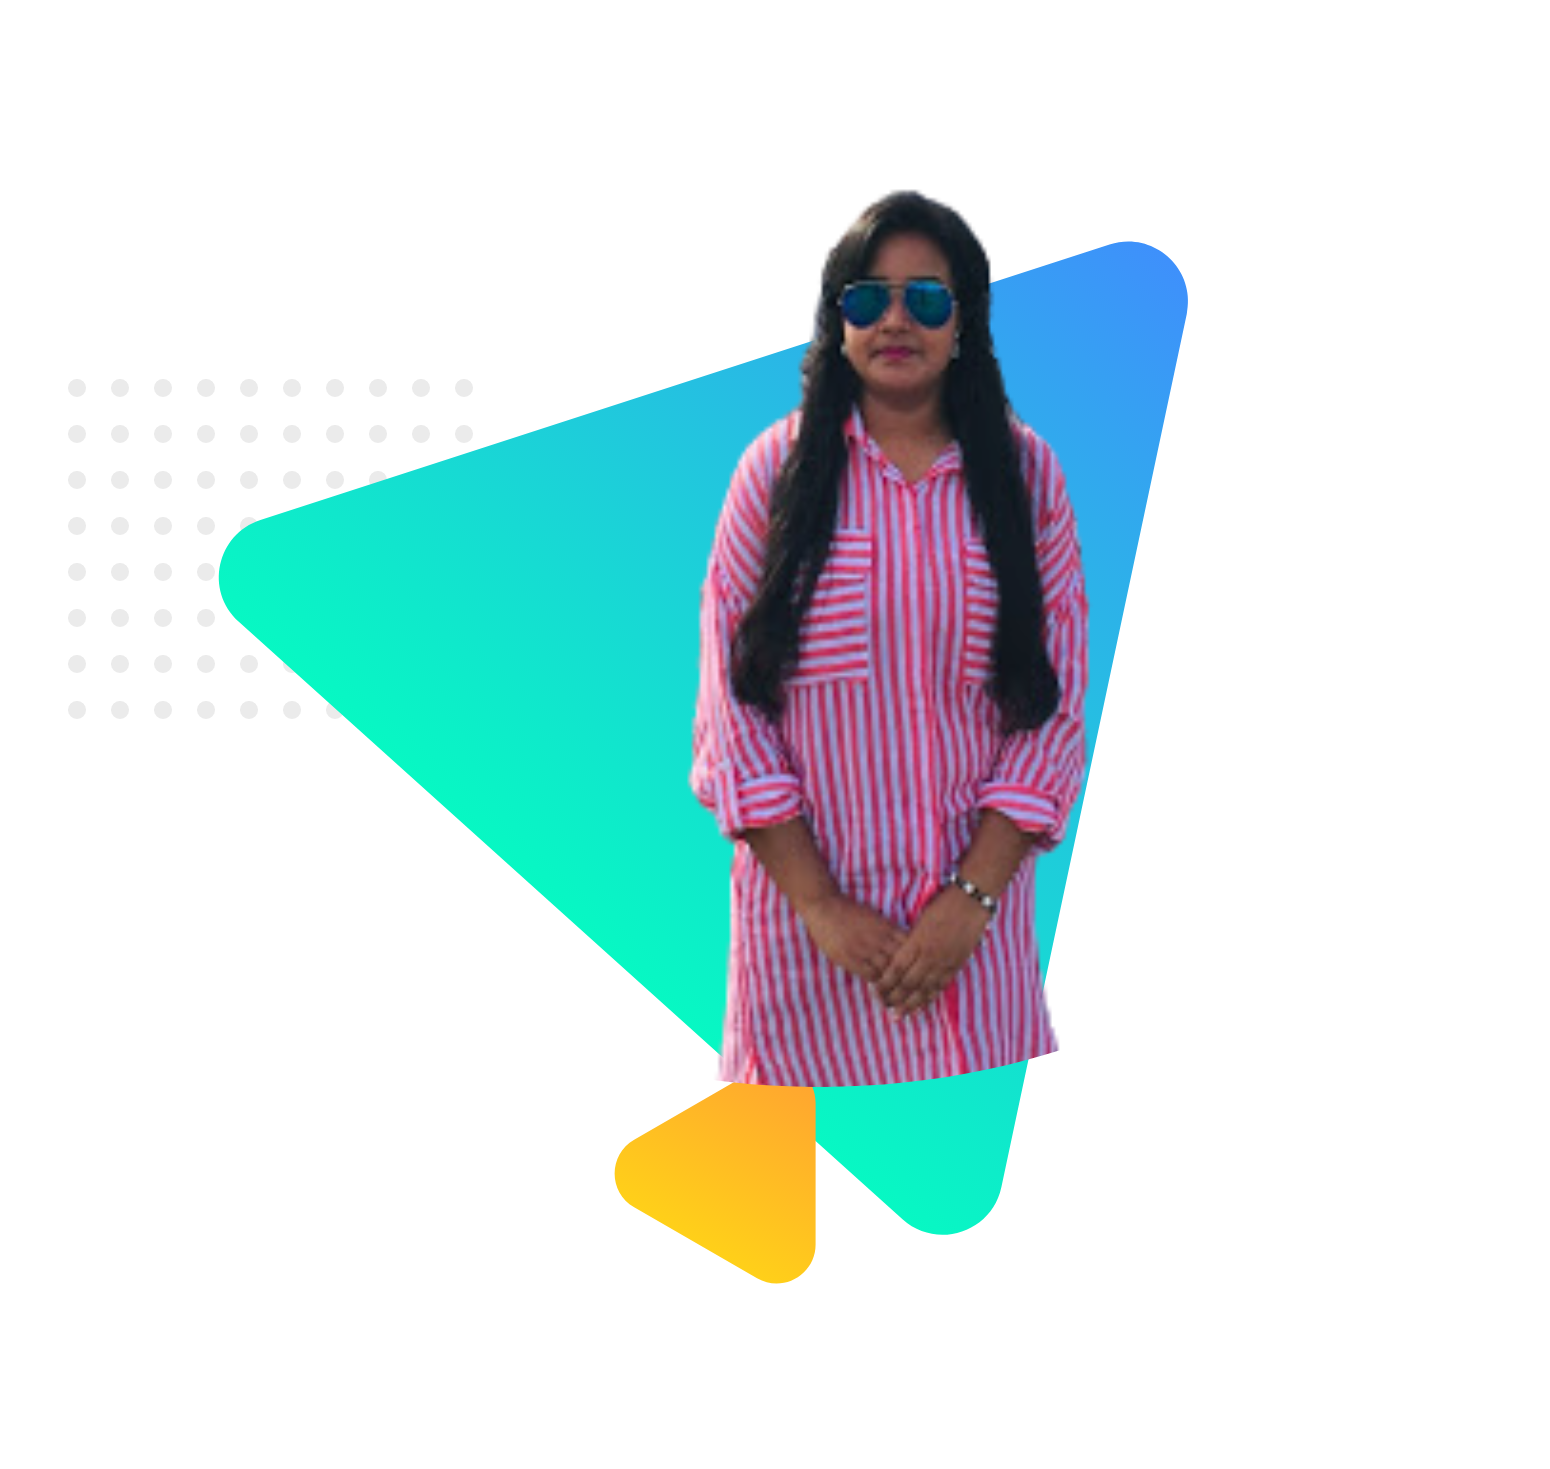
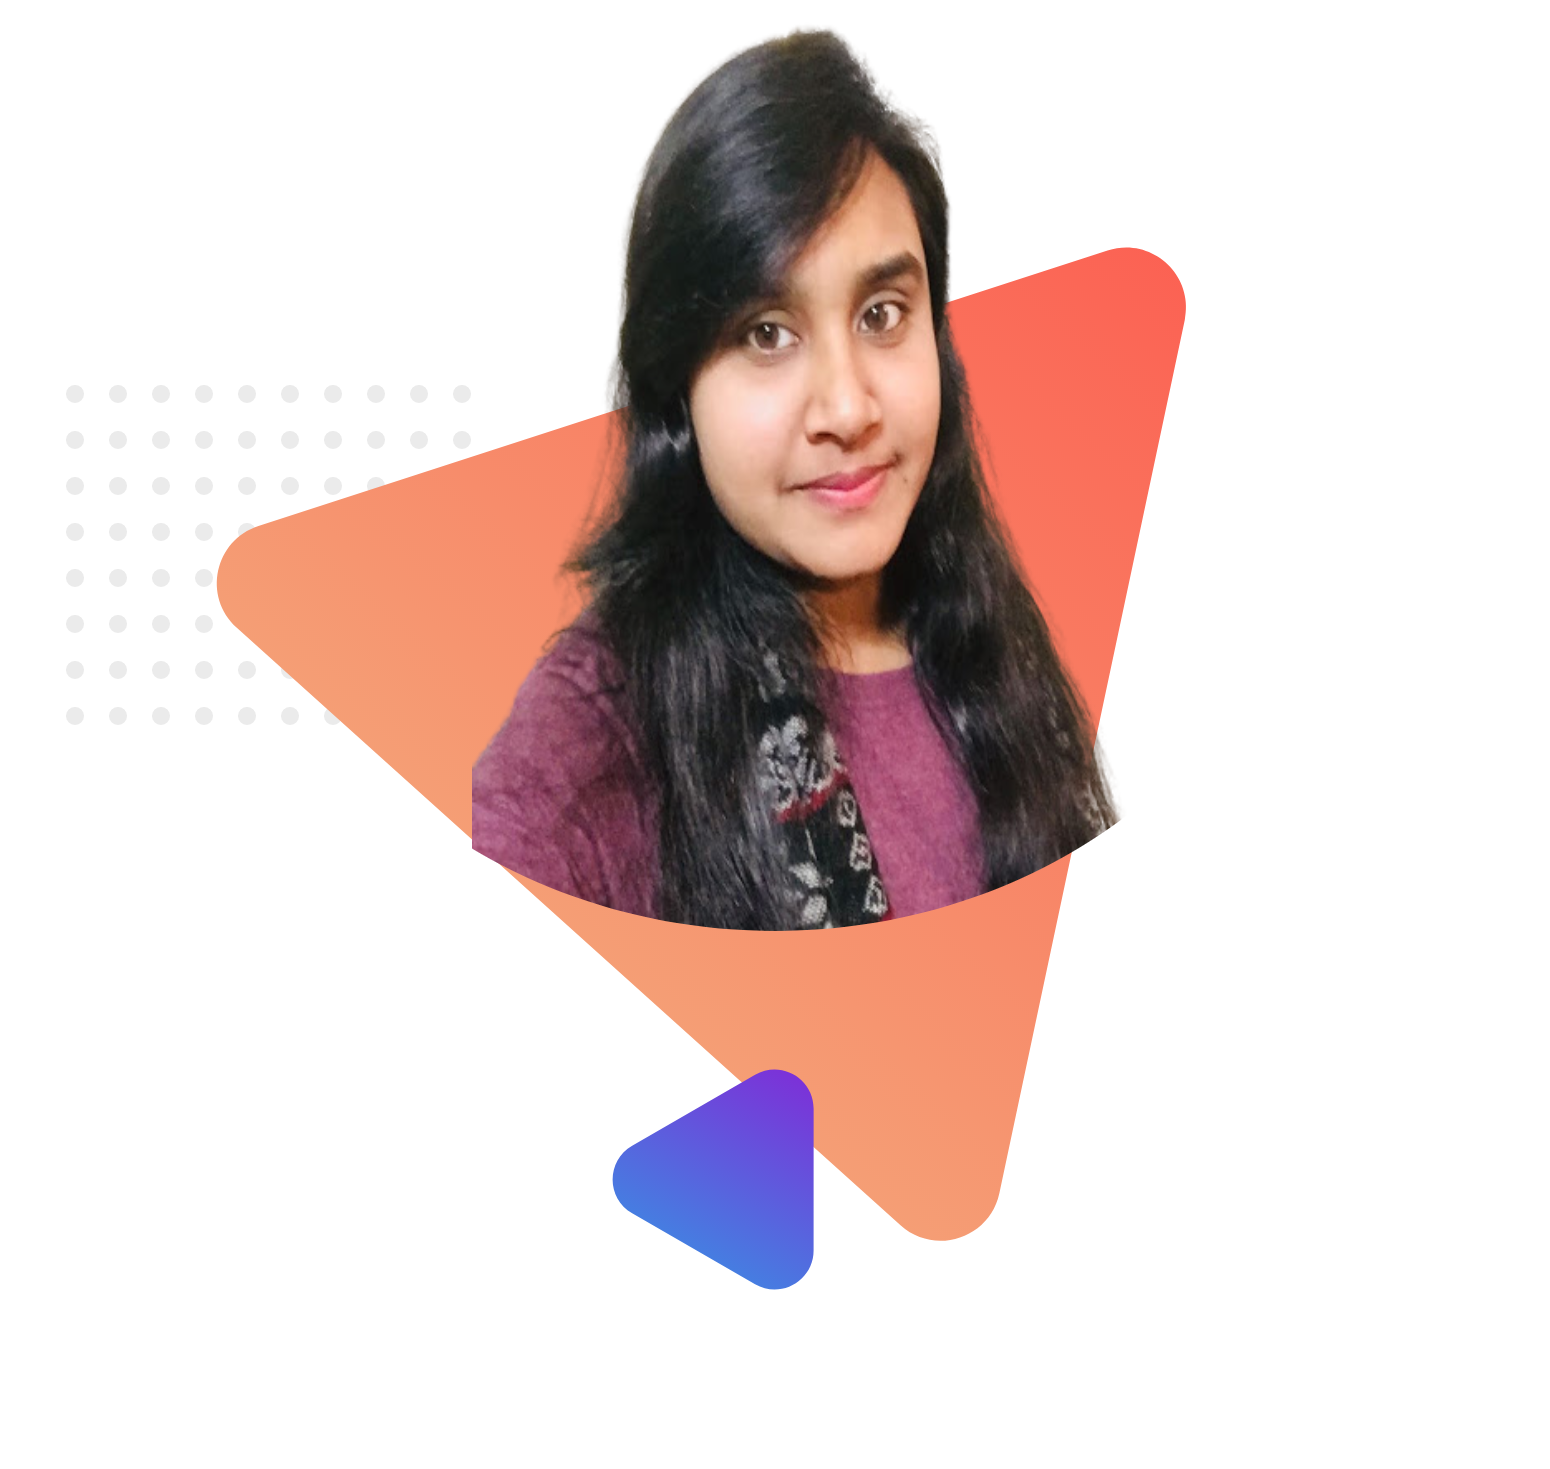
finished my website

Changed region(s): [[0.1239, 0.0, 0.7742, 0.8884]]

diff --git a/index.html b/index.html
@@ -12,7 +12,7 @@
             <div class="half-width">
                 <h1>Welcome To</h1>
         <h1> <span class="gold-highlight">Fatahia's</span> World</h1>
-        <h2>HELLO!</h2>
+        <h2 class="emoji-1">HELLO!</h2>
         <h3>I am a Professional Web developer</h3>
         <p>I have exprience on HTML, CSS, Php, Wordpress, Bootstrap, Adobe Creative Suite (Photoshop, Illustrator, Dreamweaver and Lightroom). I am learning Javascript and React. I can do code websites using HTML, CSS and JavaScript within a mainstream CMS.</p>
         <a class="link-button" target="-blank" href="https://www.linkedin.com/in/fatahia-nasrin-4991991a9/">My Linkedin Profile</a>
@@ -23,16 +23,16 @@
     </section>
     <section class="biography-area">
         <div class="half-width">
-     <img src="images/profile1.png" alt="">
+     <img src="images/profile2.png" alt="">
         </div>
         <div class="half-width">
       <h2>Biography</h2>
-      <p>My name is Fatahia Nasrin, I live and work in portales, USA. I have an assosiate's degree in Computer Information Systems and Technology. I have some experience in web development field. I will work with you one on one from start to finish to bring your dream website to life. I specialize on Javascript and React and various e-commerce platforms.</p>
+      <p>My name is Fatahia Nasrin, I live in portales, USA. I have an assosiate's degree in Computer Information Systems and Technology. I have some experience in web development field. I will work with you one on one from start to finish to bring your dream website to life. I specialize on Javascript and React and various e-commerce platforms. My favorite hobby is travelling. I like all kinds of travel: by car, by train, by plane, and travelling on foot. But I have never travel by the ship yet.</p>
       <a class="link-button" target="-blank" href="https://www.facebook.com/">visit My Social Media</a>
         </div>
     </section>
     <section class="work-area">
-        <h2 class="work-tittle">My Latest Work</h2>
+        <h2 class="work-tittle emoji-2">My Latest Work</h2>
     <div class="one-third">
     <img src="images/latest-work/work-1.png" alt="">
     </div>
@@ -47,9 +47,9 @@
         <footer class="client">
             <h2>What Client are Say</h2>
             <h4>Dr. Abu Sayeed</h4>
-            <h6>Assistance Professor</h6>
-            <p class="quote">In a lot of ways, success is much harder than I thought it would be.</p>
-           <p class="quote">But, it's hard work, almost harder once you're successful because you've got to maintain it.</p>
+            <h6>Founder and CEO</h6>
+            <p class="quote">"In a lot of ways, success is much harder than I thought it would be.</p>
+           <p class="quote">But, it's hard work, almost harder once you're successful because you've got to maintain it."</p>
         <div class="bottom-part">
             <h6>You can email me in the following gmail:</h6>
             <h3>nasrin.fatahia@gmail.com</h3>

diff --git a/style.css b/style.css
@@ -8,6 +8,16 @@ h1{
 h2{
     font-size: 30px;
 }
+.emoji-1::after{
+    content: "✋";
+}
+h3:hover{
+    color:rgb(246,150,112);
+    transition:.7s;
+}
+h6{
+    color:dimgray;
+}
 p{
     color:dimgray;
     padding: 10px;
@@ -48,11 +58,14 @@ section{
     text-align: center;
     padding:50px;
 }
+.emoji-2::after{
+    content: "📁";
+}
 .one-third{
     width:28%;
     float: left;
     margin-left: 3%;
-    padding-left: 1%;  
+    padding-left: 2%;  
 }
 .one-third img{
     width:100%;
